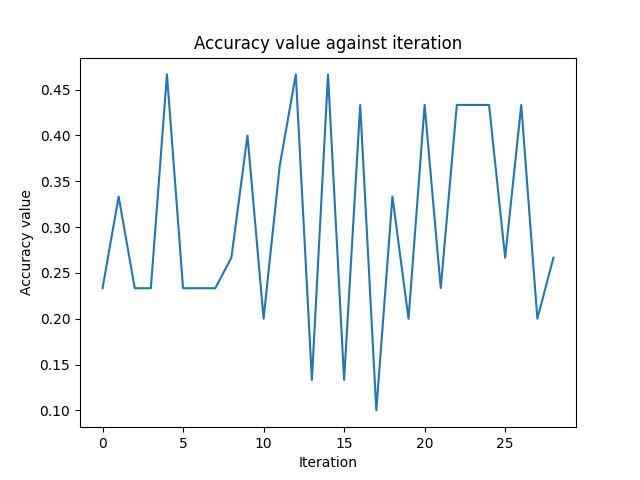
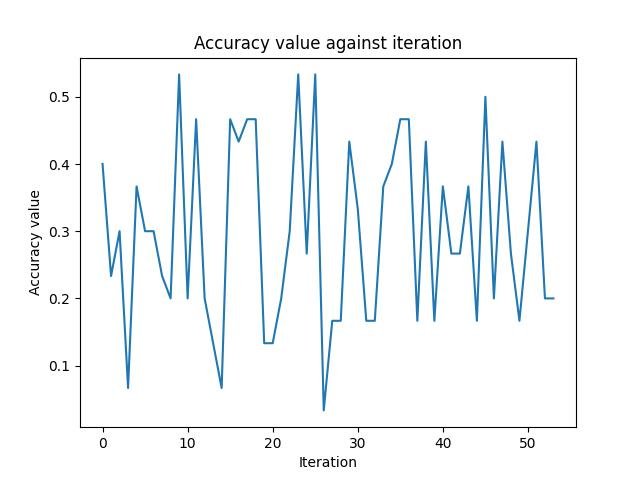
commit

diff --git a/swap_ML_v10/main_no_grover.py b/swap_ML_v10/main_no_grover.py
@@ -81,7 +81,7 @@ def optimize(cost_func, initial_weights):
 
 # メインの量子回路
 class SwapQNN:
-    def __init__(self, nqubits, simulator, nshots, X_train: list, y_train: int, state_phase=None):
+    def __init__(self, nqubits, simulator, nshots, X_train: list, y_train: int):
         self.nqubits_train = nqubits
         self.simulator = simulator
         self.nshots = nshots
@@ -91,8 +91,6 @@ class SwapQNN:
         self.y_train = y_train
         
         self.weights = ParameterVector('weight', self.n_params)
-        
-        # self.state_phase = state_phase
         
     def U_in(self, X, y):
         qr = QuantumRegister(self.nqubits_train, 'qr')
@@ -158,7 +156,6 @@ class SwapQNN:
         )
         
         return qnn
-        
 
     def grover_diffusion(self):
         n_qubits = 2
@@ -246,24 +243,7 @@ class SwapQNN:
             
             self.add_paramed_ent_gate(para_ent_qc, id_qubit, 0, 1)
             
-            # if id_qubit == 1:
-            #     self.add_paramed_ent_gate(para_ent_qc, id_qubit, 0, 2)
-            # elif id_qubit == 2:
-            #     self.add_paramed_ent_gate(para_ent_qc, id_qubit, 1, 2)      
-            # else:
-            #     self.add_paramed_ent_gate(para_ent_qc, id_qubit, 0, 1)
-                
             para_ent_qc.barrier()
-        
-        # print(para_ent_qc)
-        
-        # for id_qubit in range(n_qubits-1):
-        #     if id_qubit < 2:
-        #         self.add_paramed_gate(para_ent_qc, id_qubit, 0)
-        #     else:
-        #         self.add_paramed_gate(para_ent_qc, id_qubit, 1)
-
-        # print(para_ent_qc)
         
         inst_paramed_gate = para_ent_qc.to_instruction()
         

diff --git a/swap_ML_v10/test/check_dist_label.py b/swap_ML_v10/test/check_dist_label.py
@@ -1,15 +1,21 @@
 from qiskit import *
 from qiskit_aer import AerSimulator
+from itertools import combinations
 
 n_qubits = 5
 n_shots = 10000
 
-qr = QuantumRegister(n_qubits)
-cr = ClassicalRegister(1)
+# qr = QuantumRegister(n_qubits)
+# cr = ClassicalRegister(1)
 
-qc = QuantumCircuit(qr, cr)
+# qc = QuantumCircuit(qr, cr)
 
-def swap_test(qc, q1, q2):
+def swap_test(q1, q2):
+    
+    qr = QuantumRegister(n_qubits)
+    cr = ClassicalRegister(1)
+
+    qc = QuantumCircuit(qr, cr)
     
     y1_bin = format(q1, '02b')
     y2_bin = format(q2, '02b')
@@ -28,20 +34,25 @@ def swap_test(qc, q1, q2):
     qc.h(n_qubits-1)
     qc.barrier()
     
-    
     qc.measure(n_qubits-1, 0)
     
     return qc
 
-swapTest = swap_test(qc, 1, 3)
-print(swapTest)
 
-simulator = AerSimulator()
-compiled_circuit = transpile(swapTest, simulator)
-qobj = assemble(compiled_circuit, shots=n_shots)
-results = simulator.run(qobj, shots=n_shots).result()
-answer = results.get_counts()
-print(answer)
+l = [i for i in range(4)]
+print(l)
+
+for v in combinations(l, 2):
+    print(v)
+    swapTest = swap_test(v[0], v[1])
+    print(swapTest)
+
+    simulator = AerSimulator()
+    compiled_circuit = transpile(swapTest, simulator)
+    qobj = assemble(compiled_circuit, shots=n_shots)
+    results = simulator.run(qobj, shots=n_shots).result()
+    answer = results.get_counts()
+    print(answer)
 
 
 

diff --git a/swap_ML_v10/main.py b/swap_ML_v10/main.py
@@ -443,9 +443,9 @@ class SwapQNN:
         
         accuracy = accuracy_score(y_test, y_pred)
         
-        # graph_accuracy(accuracy, title="Accuracy value against iteration")
+        graph_accuracy(accuracy, title="Accuracy value against iteration")
         
-        return accuracyi4
+        return accuracy
 
 def graph_loss(loss, y, title):
     fig1, ax1 = plt.subplots()
@@ -511,8 +511,8 @@ if __name__ == "__main__":
     loss_point = []
     y_list = []
     
-    FIG_NAME_LOSS = 'fig_v1/graph_loss.jpeg'
-    FIG_NAME_ACCURACY = 'fig_v1/graph_accuracy.jpeg'
+    FIG_NAME_LOSS = 'fig_v3/graph_loss.jpeg'
+    FIG_NAME_ACCURACY = 'fig_v3/graph_accuracy.jpeg'
     
     if NUM_CLASS <= 4:
         
@@ -553,7 +553,7 @@ if __name__ == "__main__":
                 print("LOSS", qc.cost_func(optimized_weight))
                 
                 
-                # graph_loss(qc.cost_func(optimized_weight), y, title="Objective function value against iteration")
+                graph_loss(qc.cost_func(optimized_weight), y, title="Objective function value against iteration")
                 
                 # print("gradients",qc.calc_gradient(optimized_weight))
                 
